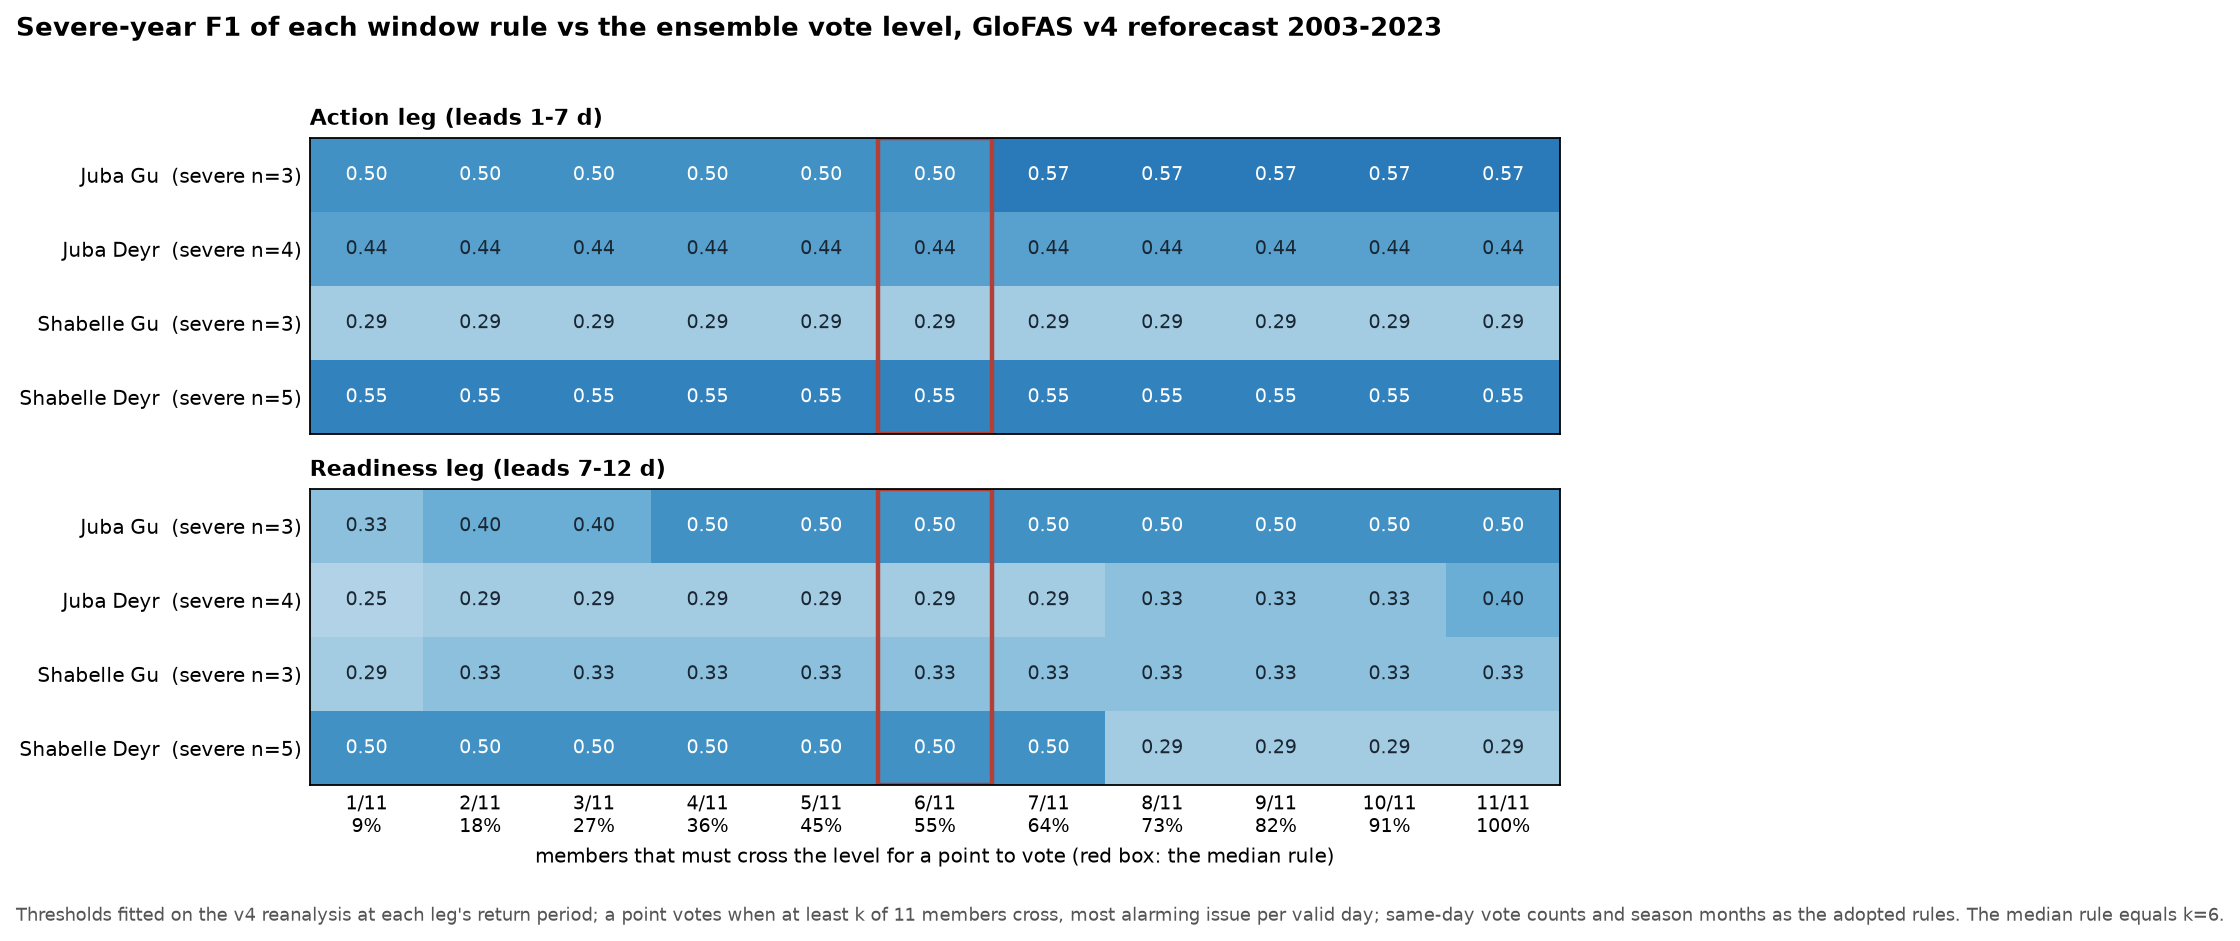
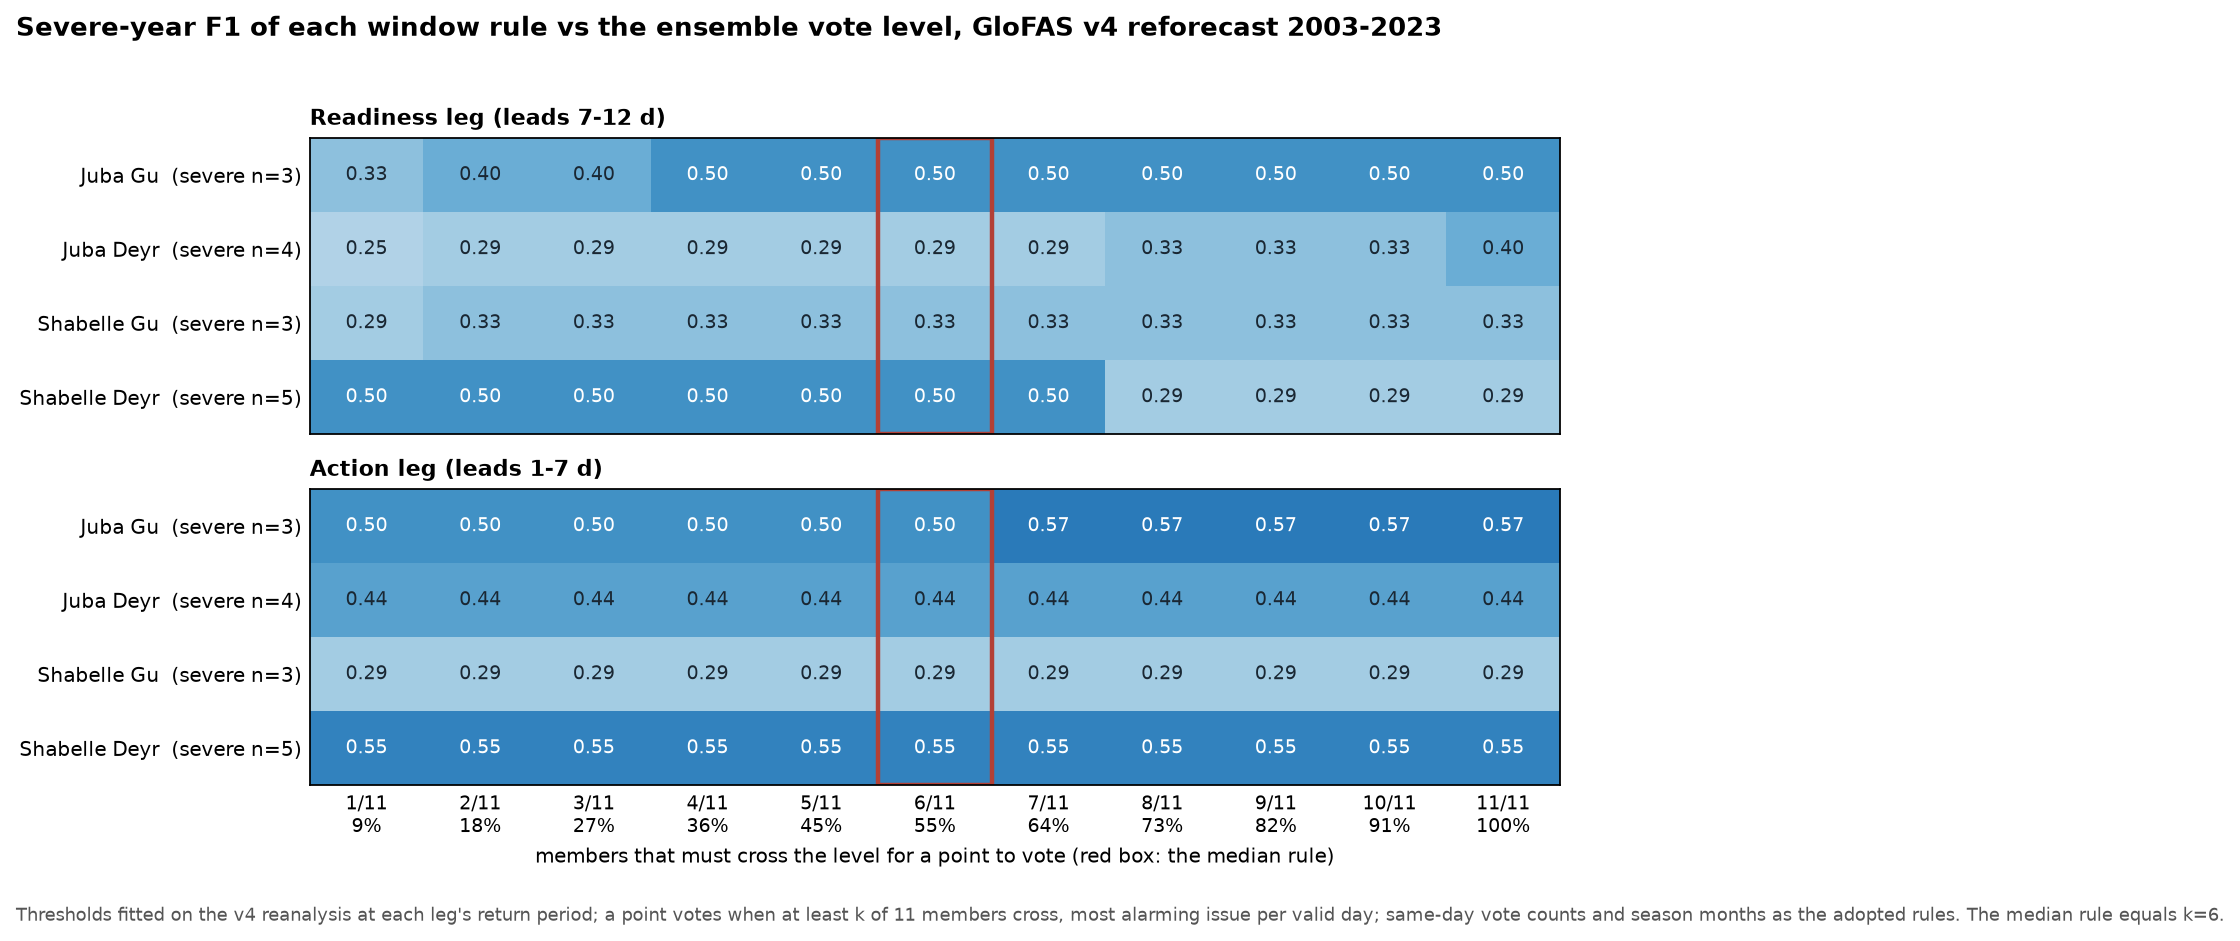
Readiness above action on the vote-level page
Panel order in the heatmap, its caption, and the findings bullets,
matching the monitoring dashboard.

diff --git a/pages/ensemble-vote/index.html b/pages/ensemble-vote/index.html
@@ -94,9 +94,9 @@ table.data td { border-bottom:1px solid #eef1f1; padding:7px 10px; color:var(--n
 
     <h2>The sweep</h2>
     <figure>
-      <img src="figs/j_prob_sweep.png?v=202609041300" alt="Heatmap of severe-year F1 per window and leg across the eleven vote levels">
-      <figcaption>Severe-year F1 per window at each vote level, action leg above,
-        readiness below. The red box marks the median rule. On the action leg, three of
+      <img src="figs/j_prob_sweep.png?v=202609041500" alt="Heatmap of severe-year F1 per window and leg across the eleven vote levels">
+      <figcaption>Severe-year F1 per window at each vote level, readiness leg above,
+        action below. The red box marks the median rule. On the action leg, three of
         the four windows give the same activations, detection and false alarms at every
         level from 1 of 11 to 11 of 11. With 3 to 5 severe events per window, read
         direction, not decimals.</figcaption>
@@ -110,15 +110,15 @@ table.data td { border-bottom:1px solid #eef1f1; padding:7px 10px; color:var(--n
           required number of points on the same day, does not reach the levels in the
           missed years. Those misses come from the model's magnitudes, and no vote level
           can recover them.</li>
+        <li><strong>At leads 7&ndash;12 the level matters, in both directions.</strong>
+          The ensemble spread is wider at readiness leads. Above the median, Juba Deyr
+          loses its 2015 activation, the one outside the benchmark, but Shabelle Deyr
+          loses 2014, a severe year. Below the median, Juba Gu adds 2010 and 2016 without
+          catching any additional severe year.</li>
         <li><strong>At leads 1&ndash;7 the level barely matters.</strong> The ensemble is
           tight at short leads: most members cross together or not at all. The one
           exception is Juba Gu, where levels above the median drop the 2016 activation, a
           flood year but not a severe one on that window.</li>
-        <li><strong>At leads 7&ndash;12 the level matters, in both directions.</strong>
-          The spread is wider there. Above the median, Juba Deyr loses its 2015
-          activation, the one outside the benchmark, but Shabelle Deyr loses 2014, a
-          severe year. Below the median, Juba Gu adds 2010 and 2016 without catching any
-          additional severe year.</li>
       </ul>
     </div>
 
